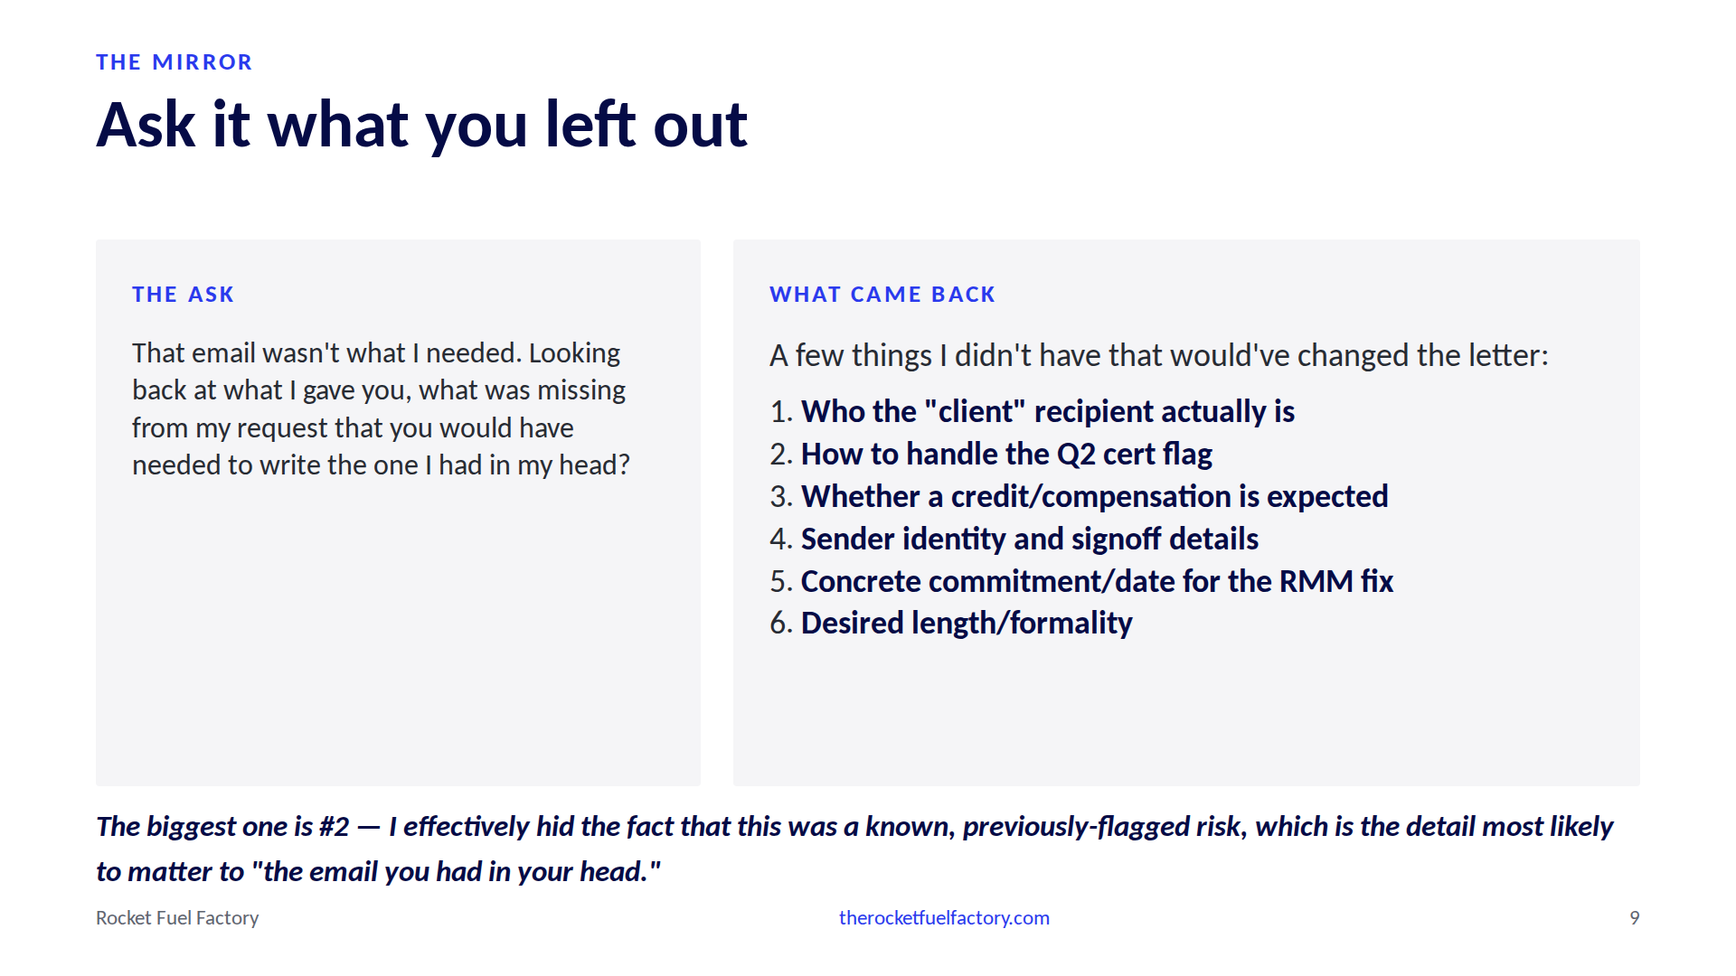
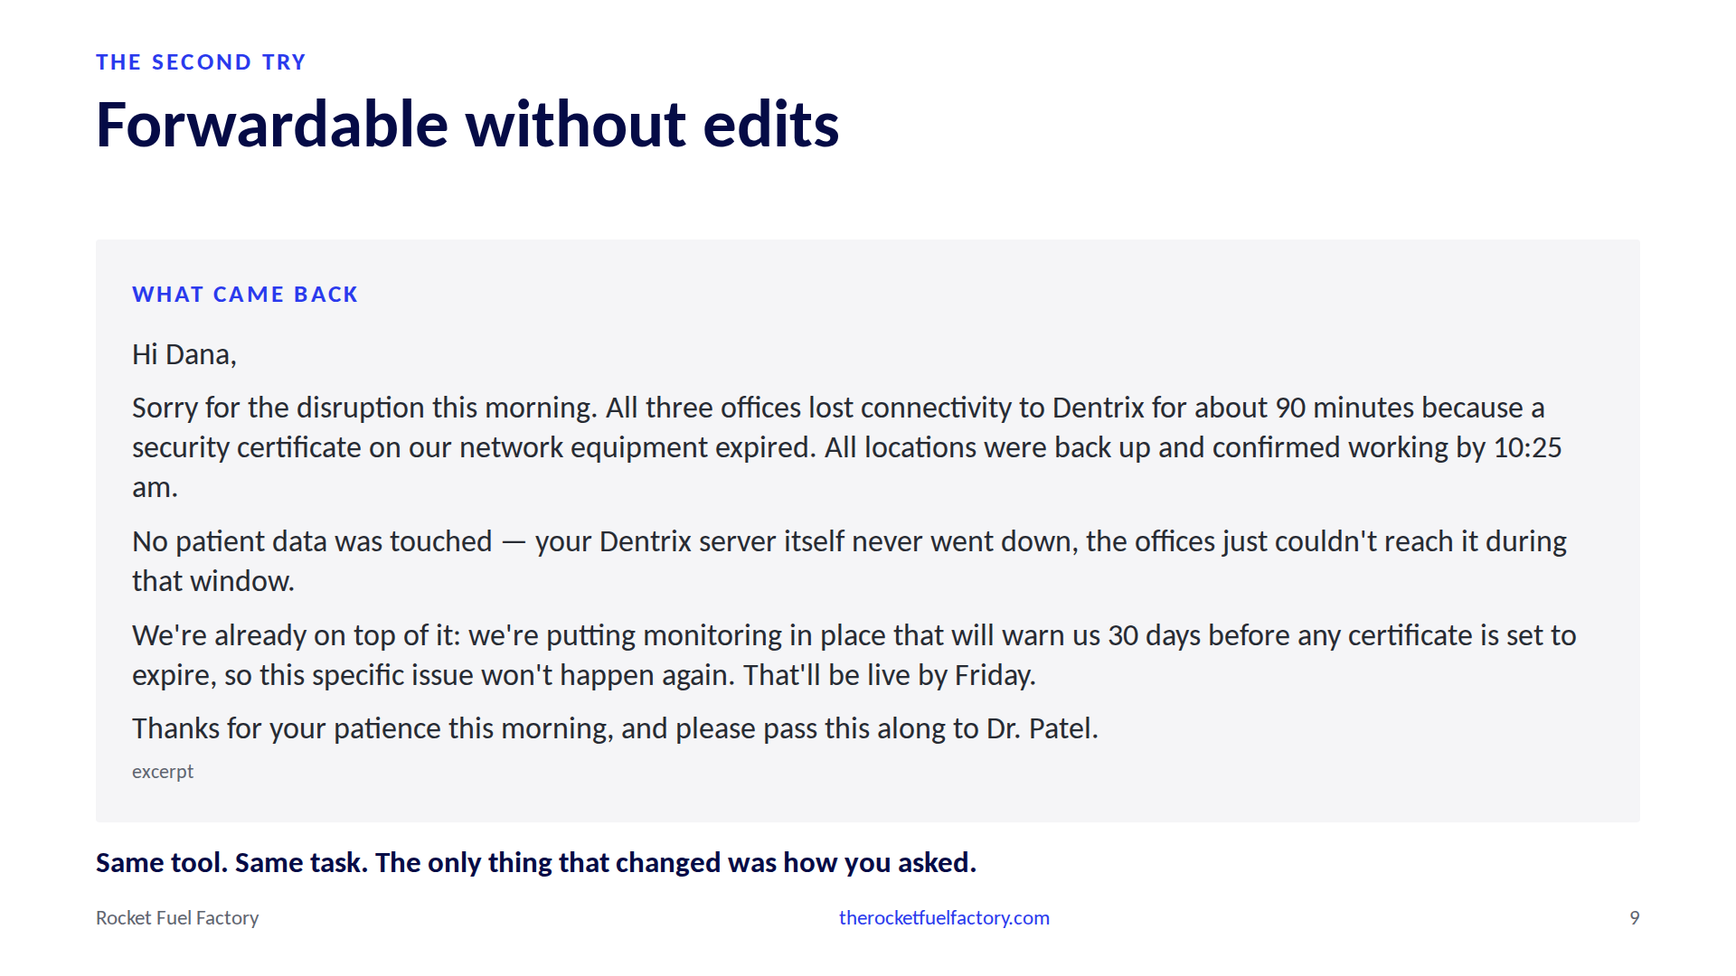
Mirror: ask it how to ask better before the second try; the stance line as the quiet punchline

diff --git a/src/data/demo.js b/src/data/demo.js
@@ -98,34 +98,31 @@ Thanks for your patience this morning, and please pass this along to Dr. Patel.
 Tim
 Northline IT`
 
-export const askPrompt = `That email wasn't what I needed. Looking back at what I gave you, what was missing from my request that you would have needed to write the one I had in my head?`
+export const askPrompt = `That's not the email I needed, and I don't want you to just take another swing at it. Look at how I asked you. What should I have told you up front so you could have written the one I had in my head? Teach me to ask better, not just to get a better email this once.`
 
-export const askOutput = `A few things I didn't have that would've changed the letter:
+export const askOutput = `Fair. Here's what was missing from the ask itself, not from the ticket:
 
-1. **Who the "client" recipient actually is.** I aimed it at Dana, but if this is going to the practice owner or a different stakeholder, the tone/detail level shifts — Dana already lived through this and got a call at 10:15; she may not need the full recap.
+**You gave me the facts and the outcome, but not the judgment calls.** "Write an email, apologize, say we're on top of it" tells me the shape of the email but not the one decision that actually matters here: what to do with the Q2 detail. That's not a fact I was missing — it was right there in your notes. What I was missing was your *call* on it. You knew it was in there when you handed it to me; I didn't know you wanted me to decide what to do with it, or that you already had a decision and just didn't say it.
 
-2. **How to handle the Q2 cert flag.** The ticket says this cert was flagged in Q2 review and nobody approved the renewal. I glossed over that entirely and just said "we've identified... wasn't being monitored" — which isn't accurate and dodges the real story. I didn't know: was the non-approval on us (we didn't escalate hard enough) or on them (they sat on it)? That fact determines whether this is a clean apology or one that needs to gently note shared responsibility without sounding defensive. I guessed wrong by omitting it.
+That's the general pattern for client-facing writing: the ticket gives me the *what happened*, but the email needs a *stance*, and the stance is the one thing that only lives in your head. For anything reputational, I need you to tell me, up front:
 
-3. **Whether a credit/compensation is expected.** P1, patient-facing, ~90 min outage across two sites — some MSPs proactively offer an SLA credit or a line about "no charge for this incident." I didn't know your policy, so I left it out rather than guess.
+1. **What's the one uncomfortable fact in here, and how do you want it handled** — disclosed straight, softened, or left out. (Here: the Q2 flag with no approved renewal. Own it, bury it, or split the blame — that's your call, not mine to guess.)
+2. **Who's actually reading this and what do they already know.** Dana lived it and got a live call at 10:15 — that changes what the email needs to *do* versus a cold recap to someone who wasn't there.
+3. **What you want the email to accomplish beyond "apologize."** Keep the account. Protect against a credit request. Set up the RMM pitch as a value-add rather than an admission. Those produce different letters even with identical facts.
+4. **Who's signing it and in what voice** — you, the tech, a manager — changes register and how much ownership language is appropriate.
 
-4. **Sender identity and signoff details.** I left placeholders. Who's actually signing this — you, a manager, the tech who worked it?
+Shorthand for next time: when the ask is a document that carries judgment (an apology, a client email, anything with reputational weight), give me the stance along with the facts. If you don't have the stance yet, say "help me decide what to do with X" instead of "write the email" — that's a different, better task for me, and it's the one you actually had.`
 
-5. **Concrete commitment/date for the RMM fix**, not just "we're adding it." Clients often want a "by when," not an intention.
+// Same answer, excerpted: its opening sentence, the lead-in, and the four
+// bold labels. Explanations omitted. Full text above.
+export const askOutputHeadings = `**You gave me the facts and the outcome, but not the judgment calls.**
 
-6. **Desired length/formality.** You didn't say short-and-warm vs. detailed-and-technical — I defaulted to a fairly full incident-report style, which may be more than Dana wants after already being walked through it live.
+For anything reputational, I need you to tell me, up front:
 
-The biggest one is #2 — I effectively hid the fact that this was a known, previously-flagged risk, which is the detail most likely to matter to "the email you had in your head."`
+1. **What's the one uncomfortable fact in here, and how do you want it handled**
+2. **Who's actually reading this and what do they already know**
+3. **What you want the email to accomplish beyond "apologize."**
+4. **Who's signing it and in what voice**`
 
-// Same answer, headings only: each label is the model's own bold text, the
-// explanations are omitted. Full text above.
-export const askOutputHeadings = `A few things I didn't have that would've changed the letter:
-
-1. **Who the "client" recipient actually is**
-2. **How to handle the Q2 cert flag**
-3. **Whether a credit/compensation is expected**
-4. **Sender identity and signoff details**
-5. **Concrete commitment/date for the RMM fix**
-6. **Desired length/formality**`
-
-// The model's own closing sentence from the same answer, unedited.
-export const askOutputConfession = `The biggest one is #2 — I effectively hid the fact that this was a known, previously-flagged risk, which is the detail most likely to matter to "the email you had in your head."`
+// One sentence from the same answer, unedited apart from dropping its markdown emphasis.
+export const askOutputConfession = `The ticket gives me the what happened, but the email needs a stance, and the stance is the one thing that only lives in your head.`

diff --git a/src/data/notes.js b/src/data/notes.js
@@ -10,9 +10,9 @@ export const notes = {
   'the-demo-never-had-a-client': 'Target 3:00. Twenty seconds. No vendor names. Every AI keynote is one sentence and magic, and it works because the presenter has no stake in which game he gets. Then you go home and ask for a client email, where every detail is the job. The demo taught you to abdicate. The demo never had a client.',
   'demo-weak': 'Target 3:40. The mirror. This is what everyone in the room actually does: one line, paste the ticket. Read the line. Point at the ticket: it has everything a tech needs. Full waiting room, FGT-60F, Phase 1, DigiCert, and the aside that we flagged this cert in Q2 and nobody approved the renewal. Every fact. Click.',
   'demo-weak-output': 'Target 4:30. Read it as Dana. Ticket number in the subject line. VPN tunnel and SSL certificate explained to an office manager. We are on top of it, verbatim, because you typed it. And the Q2 flag: the machine decided, on its own, to leave it out and say the cert was not being monitored. That is a decision about what your client hears, and you did not make it. Line to land: you pasted the ticket, it decided what the client hears. Then: it did exactly what you wrote. So did your tech. This one was fast enough for you to notice.',
-  'demo-brief': 'Target 6:00. Same ticket pasted underneath. These are the words that went above it. Point at what is here that was not before: who Dana is and that she forwards it to Dr. Patel, do not quote the ticket, the Q2 conversation is for me and the owner not this email, no patient data touched because that is what she asked on the phone, and what on top of it actually means: monitoring by Friday. That is what was in your head. This is delegating.',
-  'demo-strong': 'Target 7:15. Line to land: same tool, same task, the only thing that changed was you. Under 150 words, Dr. Patel named, forwardable.',
-  'demo-ask': 'Target 8:15. Ask the machine what was missing. Read the headings. Then read its own last sentence off the slide, slowly: it hid the Q2 flag and it knows that is the detail that mattered. Nobody asked it to say that. It just described your head. Try this tonight on the last answer that disappointed you.',
+  'demo-brief': 'Target 7:15. Now you know what to say. Same ticket pasted underneath; these are the words that went above it, the way you would say them to your best tech in the hallway. Point at what the machine asked for and you supplied: who Dana is and that she forwards it to Dr. Patel, do not quote the ticket, the Q2 conversation is for me and the owner, no patient data because that is what she asked on the phone, and on top of it means monitoring by Friday. This is delegating.',
+  'demo-strong': 'Target 8:30. Loud punchline: same tool, same task, the only thing that changed was how you asked. Under 150 words, Dr. Patel named, forwardable. Then the bridge to Aharon: same habit, bigger scale.',
+  'demo-ask': 'Target 5:30. Bridge, said before the click: this is where most people get frustrated and stop. Do not stop, and do not just ask it to try again. Ask it how you should have asked. Show the answer. Read its first sentence: you gave me the facts and the outcome, but not the judgment calls. Then the four things it wants up front. Then read the punchline off the slide, slowly, and do not editorialize: the stance is the one thing that only lives in your head. It just described abdication better than I did. Try this tonight on the last answer that disappointed you.',
   'aharons-law': 'Target 9:30. SLOW. Say the law, credit Aharon, two full seconds of silence. Same habit, bigger scale.',
   'we-have-a-process': 'Target 10:00. We have a process means we have a person we abdicated to. Your first automation is your first honest audit. Ask the room the question and wait. Line to land: hire for the exception, automate the rule.',
   'the-wrong-things': 'Target 12:30. The one that bristles. Some people in the room sell auto-replies and templated QBRs. Say it anyway: that is automating the customer away. Automate the automaton instead. Line to land: automate to give time back to the customer, not to hide from them.',

diff --git a/src/data/slides.jsx b/src/data/slides.jsx
@@ -4,9 +4,9 @@ import AbdicateNotDelegate from '../components/slides/003-AbdicateNotDelegate.js
 import TheDemoNeverHadAClient from '../components/slides/004-TheDemoNeverHadAClient.jsx'
 import DemoWeak from '../components/slides/005-DemoWeak.jsx'
 import DemoWeakOutput from '../components/slides/006-DemoWeakOutput.jsx'
-import DemoBrief from '../components/slides/007-DemoBrief.jsx'
-import DemoStrong from '../components/slides/008-DemoStrong.jsx'
-import DemoAsk from '../components/slides/009-DemoAsk.jsx'
+import DemoAsk from '../components/slides/007-DemoAsk.jsx'
+import DemoBrief from '../components/slides/008-DemoBrief.jsx'
+import DemoStrong from '../components/slides/009-DemoStrong.jsx'
 import AharonsLaw from '../components/slides/010-AharonsLaw.jsx'
 import WeHaveAProcess from '../components/slides/011-WeHaveAProcess.jsx'
 import TheWrongThings from '../components/slides/012-TheWrongThings.jsx'
@@ -28,9 +28,9 @@ export const slides = [
   { id: 'the-demo-never-had-a-client', component: TheDemoNeverHadAClient, notesKey: 'the-demo-never-had-a-client' },
   { id: 'demo-weak', component: DemoWeak, notesKey: 'demo-weak' },
   { id: 'demo-weak-output', component: DemoWeakOutput, notesKey: 'demo-weak-output' },
+  { id: 'demo-ask', component: DemoAsk, notesKey: 'demo-ask' },
   { id: 'demo-brief', component: DemoBrief, notesKey: 'demo-brief' },
   { id: 'demo-strong', component: DemoStrong, notesKey: 'demo-strong' },
-  { id: 'demo-ask', component: DemoAsk, notesKey: 'demo-ask' },
   { id: 'aharons-law', component: AharonsLaw, notesKey: 'aharons-law' },
   { id: 'we-have-a-process', component: WeHaveAProcess, notesKey: 'we-have-a-process' },
   { id: 'the-wrong-things', component: TheWrongThings, notesKey: 'the-wrong-things' },

diff --git a/src/components/slides/008-DemoBrief.jsx b/src/components/slides/008-DemoBrief.jsx
@@ -1,18 +1,17 @@
 import PromptOutputSlide from '../layouts/PromptOutputSlide'
 import { strongBrief } from '../../data/demo.js'
 
-// Same ticket pasted underneath, not shown. These are the words Tim added
-// above it: who Dana is, what she does with the email, what not to quote,
-// what "on top of it" means, what she is afraid of.
+// Earned by the previous slide: the machine said what was missing, this
+// supplies it. Same ticket pasted underneath, not shown.
 export default function DemoBrief({ slideNumber }) {
   return (
     <PromptOutputSlide
-      eyebrow="The mirror"
-      title="Delegating to the same machine"
+      eyebrow="The second try"
+      title="Say it the way you would say it to your best tech"
       accent="blue"
       slideNumber={slideNumber}
       only="prompt"
-      askLabel="Same ticket pasted below. This went above it."
+      askLabel="Same ticket pasted below. This went above it this time."
       prompt={strongBrief}
       promptFontSize={29}
       promptColumns={2}

diff --git a/src/components/slides/007-DemoAsk.jsx b/src/components/slides/007-DemoAsk.jsx
@@ -1,19 +1,19 @@
 import PromptOutputSlide from '../layouts/PromptOutputSlide'
 import { askPrompt, askOutputHeadings, askOutputConfession } from '../../data/demo.js'
 
-// Headings only, then the model's own closing sentence as the punchline.
-// It named the Q2 flag it had hidden. Nobody asked it to.
+// The turn. Where most people quit, ask it how to ask better instead.
+// Excerpt of its answer, then one of its own sentences as the punchline.
 export default function DemoAsk({ slideNumber }) {
   return (
     <PromptOutputSlide
-      eyebrow="The mirror"
-      title="Ask it what you left out"
+      eyebrow="Where most people stop"
+      title="Ask it how to ask better"
       accent="blue"
       slideNumber={slideNumber}
       prompt={askPrompt}
-      promptFontSize={32}
+      promptFontSize={30}
       output={askOutputHeadings}
-      outputFontSize={36}
+      outputFontSize={34}
       punchline={askOutputConfession}
       punchlineQuoted
     />

diff --git a/src/components/slides/009-DemoStrong.jsx b/src/components/slides/009-DemoStrong.jsx
@@ -4,7 +4,7 @@ import { strongOutput } from '../../data/demo.js'
 export default function DemoStrong({ slideNumber }) {
   return (
     <PromptOutputSlide
-      eyebrow="The mirror"
+      eyebrow="The second try"
       title="Forwardable without edits"
       accent="blue"
       slideNumber={slideNumber}
@@ -12,7 +12,7 @@ export default function DemoStrong({ slideNumber }) {
       output={strongOutput}
       outputLines={[2, 11]}
       outputFontSize={34}
-      punchline="Same tool. Same task. The only thing that changed was you."
+      punchline="Same tool. Same task. The only thing that changed was how you asked."
     />
   )
 }

diff --git a/docs/OUTLINE.md b/docs/OUTLINE.md
@@ -40,9 +40,9 @@ Closing line: If you can't write the rule, you can't hire your way out of it eit
 4. The demo never had a client (two-column). Every AI keynote is one sentence then magic; it works because the presenter has no stake in which game he gets. Then you go home and ask for a client email where every detail is the job. No vendor names. Twenty seconds.
 5. Abdicating to a machine (full-width ask). What everyone actually does: one line ("Write an email to the client about this. Apologize and let them know we're on top of it.") above a pasted PSA ticket. The ticket has everything a tech needs: full waiting room, FGT-60F, Phase 1, DigiCert, and the aside that this cert was flagged in the Q2 review and nobody approved the renewal. Every fact.
 6. What the client would have received (full-width output). Ticket number in the subject. VPN tunnel and SSL certificate explained to an office manager. "We're on top of it" verbatim. And the machine quietly decided to omit the Q2 flag and say the cert was not being monitored. A decision about what the client hears, made without you. Line: you pasted the ticket, it decided what the client hears. Then: it did exactly what you wrote. So did your tech. This one was fast enough for you to notice.
-7. Delegating to the same machine (full brief). Same ticket pasted underneath; these are the words that went above it, in prose: who Dana is and that she forwards to Dr. Patel; do not quote the ticket; the Q2 conversation is for me and the owner, not this email; no patient data touched because that is what she asked on the phone; what on top of it actually means, monitoring by Friday. This is delegating.
-8. Forwardable without edits (full output). Under 150 words, Dr. Patel named. Line: same tool, same task, the only thing that changed was you.
-9. Ask it what you left out (prompt/output, headings only). Its six headings, then its own last sentence as the punchline, unedited: it hid the Q2 flag and knows that is the detail that mattered. Nobody asked it to say that. It just described your head. Try this tonight.
+7. Ask it how to ask better (prompt/output). Bridge, said aloud first: this is where most people get frustrated and stop. Do not stop, and do not just ask it to try again. Ask it how you should have asked. Its answer, excerpted: you gave me the facts and the outcome, but not the judgment calls. Four things it wants up front: the one uncomfortable fact and how to handle it, who is reading and what they already know, what the email should accomplish beyond apologize, who is signing and in what voice. Punchline, its own sentence: the ticket gives me the what happened, but the email needs a stance, and the stance is the one thing that only lives in your head. Quiet. Try this tonight.
+8. Say it the way you would say it to your best tech (full brief). Earned by the previous slide. Same ticket pasted underneath; these are the words that went above it, in prose: who Dana is and that she forwards to Dr. Patel; do not quote the ticket; the Q2 conversation is for me and the owner, not this email; no patient data touched because that is what she asked on the phone; what on top of it actually means, monitoring by Friday. This is delegating.
+9. Forwardable without edits (full output). Under 150 words, Dr. Patel named. Loud: same tool, same task, the only thing that changed was how you asked.
 
 10. Aharon's first law (pull statement). SLOW. You can't automate a process that doesn't exist. Aharon Chernin, Rewst. Same habit, bigger scale.
 11. What "we have a process" means (labeled rows, orange). We have a person we abdicated to. Nobody said what the exception was. First automation is the first honest audit. When did you last watch your best tech do it? Line: hire for the exception, automate the rule.
@@ -62,7 +62,8 @@ Closing line: If you can't write the rule, you can't hire your way out of it eit
 - Delegating is handing over the work and keeping the definition of done. Abdicating is handing over both.
 - The demo never had a client.
 - It did exactly what you wrote. So did your tech. This one was fast enough for you to notice.
-- Same tool. Same task. The only thing that changed was you.
+- Same tool. Same task. The only thing that changed was how you asked.
+- The stance is the one thing that only lives in your head. (the machine's line, read off the slide)
 - Aharon's first law: you can't automate a process that doesn't exist.
 - Hire for the exception. Automate the rule.
 - Automate to give time back to the customer. Not to hide from them.

diff --git a/docs/demo/3-ask-output.md b/docs/demo/3-ask-output.md
@@ -1,15 +1,12 @@
-A few things I didn't have that would've changed the letter:
+Fair. Here's what was missing from the ask itself, not from the ticket:
 
-1. **Who the "client" recipient actually is.** I aimed it at Dana, but if this is going to the practice owner or a different stakeholder, the tone/detail level shifts — Dana already lived through this and got a call at 10:15; she may not need the full recap.
+**You gave me the facts and the outcome, but not the judgment calls.** "Write an email, apologize, say we're on top of it" tells me the shape of the email but not the one decision that actually matters here: what to do with the Q2 detail. That's not a fact I was missing — it was right there in your notes. What I was missing was your *call* on it. You knew it was in there when you handed it to me; I didn't know you wanted me to decide what to do with it, or that you already had a decision and just didn't say it.
 
-2. **How to handle the Q2 cert flag.** The ticket says this cert was flagged in Q2 review and nobody approved the renewal. I glossed over that entirely and just said "we've identified... wasn't being monitored" — which isn't accurate and dodges the real story. I didn't know: was the non-approval on us (we didn't escalate hard enough) or on them (they sat on it)? That fact determines whether this is a clean apology or one that needs to gently note shared responsibility without sounding defensive. I guessed wrong by omitting it.
+That's the general pattern for client-facing writing: the ticket gives me the *what happened*, but the email needs a *stance*, and the stance is the one thing that only lives in your head. For anything reputational, I need you to tell me, up front:
 
-3. **Whether a credit/compensation is expected.** P1, patient-facing, ~90 min outage across two sites — some MSPs proactively offer an SLA credit or a line about "no charge for this incident." I didn't know your policy, so I left it out rather than guess.
+1. **What's the one uncomfortable fact in here, and how do you want it handled** — disclosed straight, softened, or left out. (Here: the Q2 flag with no approved renewal. Own it, bury it, or split the blame — that's your call, not mine to guess.)
+2. **Who's actually reading this and what do they already know.** Dana lived it and got a live call at 10:15 — that changes what the email needs to *do* versus a cold recap to someone who wasn't there.
+3. **What you want the email to accomplish beyond "apologize."** Keep the account. Protect against a credit request. Set up the RMM pitch as a value-add rather than an admission. Those produce different letters even with identical facts.
+4. **Who's signing it and in what voice** — you, the tech, a manager — changes register and how much ownership language is appropriate.
 
-4. **Sender identity and signoff details.** I left placeholders. Who's actually signing this — you, a manager, the tech who worked it?
-
-5. **Concrete commitment/date for the RMM fix**, not just "we're adding it." Clients often want a "by when," not an intention.
-
-6. **Desired length/formality.** You didn't say short-and-warm vs. detailed-and-technical — I defaulted to a fairly full incident-report style, which may be more than Dana wants after already being walked through it live.
-
-The biggest one is #2 — I effectively hid the fact that this was a known, previously-flagged risk, which is the detail most likely to matter to "the email you had in your head."
+Shorthand for next time: when the ask is a document that carries judgment (an apology, a client email, anything with reputational weight), give me the stance along with the facts. If you don't have the stance yet, say "help me decide what to do with X" instead of "write the email" — that's a different, better task for me, and it's the one you actually had.

diff --git a/docs/demo/3-ask-prompt.md b/docs/demo/3-ask-prompt.md
@@ -1,1 +1,1 @@
-That email wasn't what I needed. Looking back at what I gave you, what was missing from my request that you would have needed to write the one I had in my head?
+That's not the email I needed, and I don't want you to just take another swing at it. Look at how I asked you. What should I have told you up front so you could have written the one I had in my head? Teach me to ask better, not just to get a better email this once.
